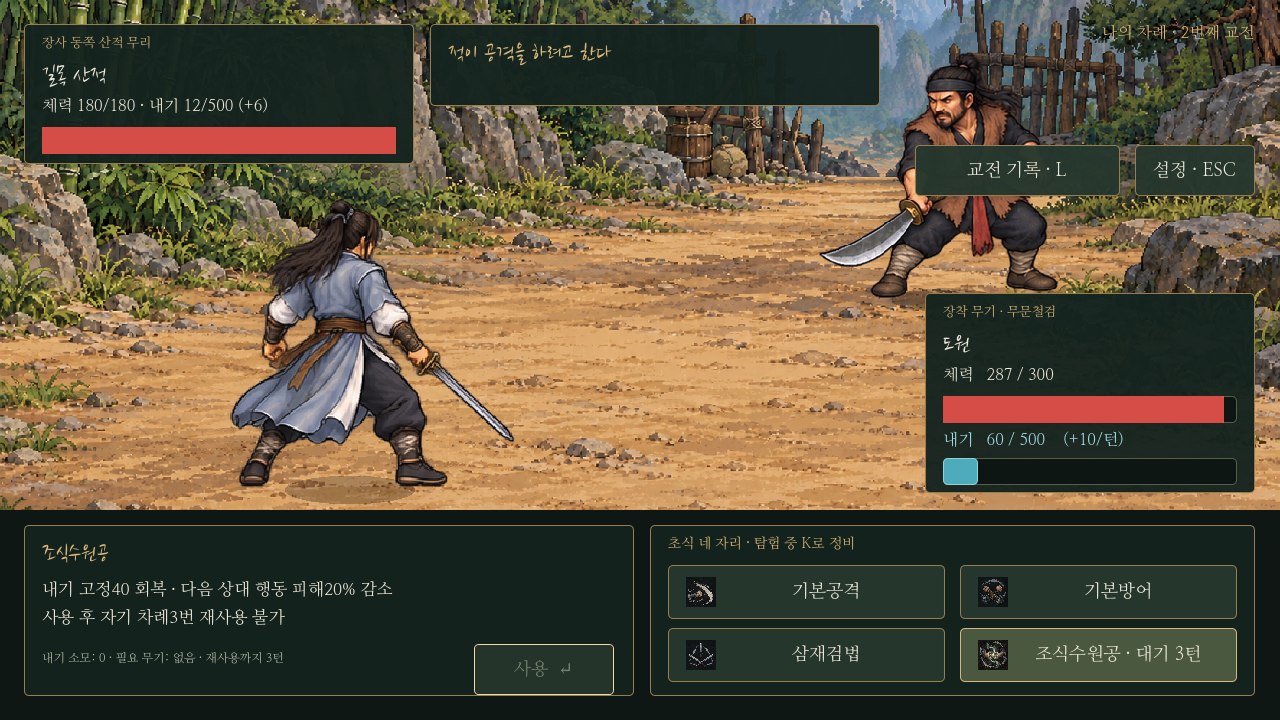
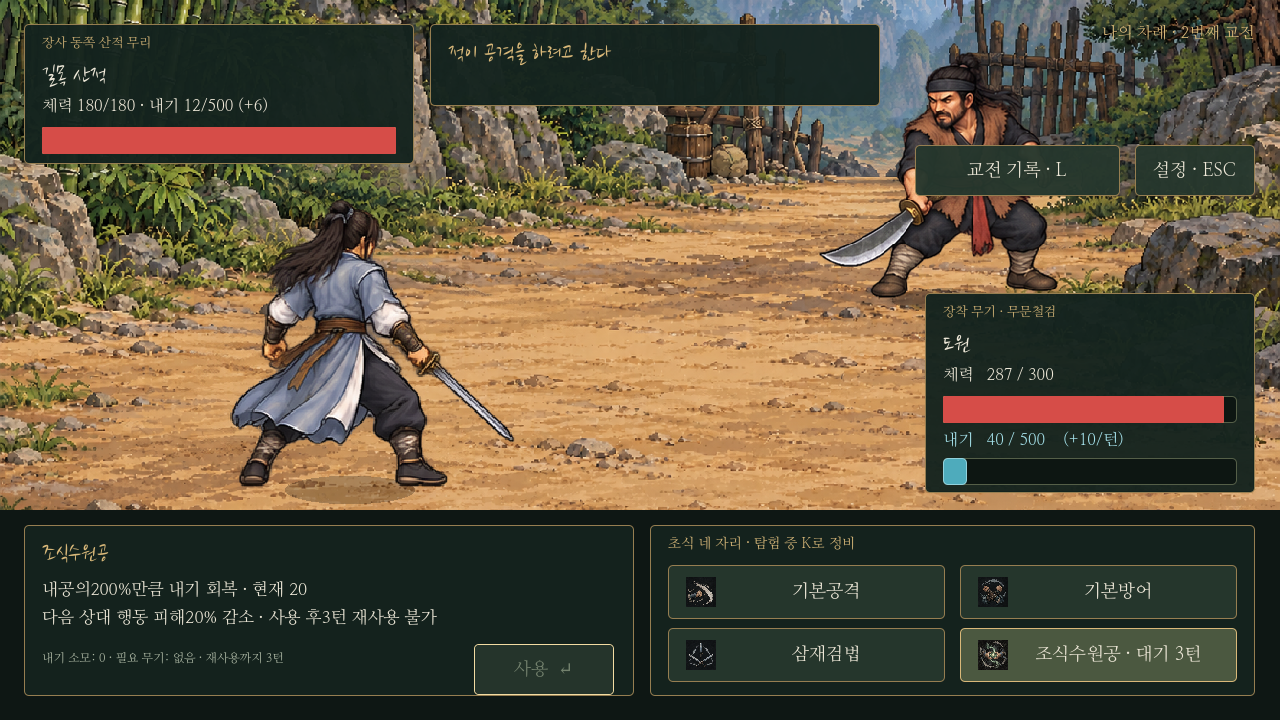
Reduce basic guard to 20 percent and scale breathing recovery with inner power

Changed region(s): [[0.0312, 0.7944, 0.3438, 0.8861], [0.75, 0.6417, 0.7812, 0.6722]]

diff --git a/docs/CLI_HANDOFF.md b/docs/CLI_HANDOFF.md
@@ -12,7 +12,7 @@
 - **진행:** 0장 출항·첫 전투·침몰·귀물/구조 선택·표국 해체·장사 입성. 귀물 인도 보수 3,000문, 구조 경로는 해당 보수 없음.
 - **장사:** 바닥과 독립 건물·담장·문 등152개 오브젝트, 발밑 충돌·Y정렬·문 중앙 통과/지붕 가림, NPC 전신 겹침 방지. 자유 탐험·미니맵·목표 안내·시설 거래. 불필요 주민16명을 제거해 현재 NPC16명(의뢰11·거래3·토벌2)이다. 의뢰11명에게 이름·배경·일상 대사를 부여했으며 [명단](characters/changsha-quest-residents.md)에 정리했다. 도입 3종은 상인→장인→교관으로 이어지고 완료 대화 뒤 100/150/200문·오성 각5를 한 번 지급한다. 독립 일반 의뢰6종도 수락/보류·수행·보고·보상까지 구현했다. 의뢰인은 노란 !, 보고 대기는 ?, 완료 후 표식을 제거한다.
 - **무창 지도:** 남쪽 농촌을 거쳐 남문으로 입성하며 북동쪽에 대형 무림맹 본단을 배치했다. 농촌 확장 후8192×7680, 성내 좌표와 본단 크기는 유지한다. 남동쪽 관아의 북·서·동 담장15개를 보강해 관아 경계를 완성했다(구조물224개). 기존 남쪽 문과 주민 접근은 유지한다. 성곽 동문은 전용 측면 그림과 남북 기둥 충돌로 고쳐 동서 왕복 통행하도록 했다. 타이틀의 ‘무창 자유 탐방’으로 확인한다. 민간 주민8명과 영약상·장인·교관 거래3종을 배치했고 주민 초상화/도트·F 대화를 연결했다. 총무당(정문 안 왼편 기존 접수처)에 F 왕복 포탈과 별도 실내를 추가했다. 실내 가구 충돌·지도·저장/불러오기를 지원한다. 무림맹 경비2명과 교관 곽진석을 성내에, 총관 허문규를 총무당 실내에 배치했다(무창11명·실내1명). 정문 출입 제한과 기본 대화를 연결했으며 [이번 범위](story/alliance-visit-foundation.md)에 정리했다. 송지겸은 상시 배치 없이 사건에 맞춰 등장하는 인물로 확정했다. 초대·보증 연출·무공 선택/지급은 다음 단계다. 기본 새 플레이는 신원 미확인으로 입장이 막힌다. [주민과 대사](characters/wuchang-civilians.md). 즉시 동행 선택지 없이 나중에 육로로 방문하는 방향. [지도·진행 구분](cities/wuchang.md), [무림맹](factions/murim-alliance.md).
-- **무창 일반 의뢰:** 유백초의 「돌아오지 않는 약초꾼」을 수락→산길 약초 꾸러미 조사→구칠과 전투→귀환 보고로 구현했다. 꾸러미의 마지막 조사 대사를 마쳐야 임소평·구칠을 생성하며 그전에는 몸체/상호작용/지도 표식이 없다. 완료 보상은 **200문만**, 능력치·명성 변화 없음. 장사 밖 일반 의뢰에 오성을 자동 부여하지 않는다. 재도전·Q 일지·지역별 출구/목표 안내·저장 복원을 지원한다. [진행·원고·검증](quests/wuchang-herbalist.md). 석대용의 「장인의 이름값」도 수락→주계복의 호미/구매 경위 확인→오덕수의 반입 장부 확인→석대용 보고로 구현했다. 완료 보상150문만, 비전투·기존 주민 재사용·순서 건너뛰기 방지·Q 안내/표식/단계별 저장을 지원한다. [원고·진행·검증](quests/wuchang-artisan.md). 세 번째 「세 걸음의 대련」도 임정산 수락→연무장 유소강 대련→승패와 관계없이 보고→조식수원공 전수로 구현했다. 세 의뢰는 동시 진행 가능하며 나머지 무창 주민5인 의뢰는 후보 상태다. 조식수원공은 모든 무기/맨손, 내기0 소모, 고정내기40 회복/해당 상대 행동 피해20%감소/사용 후 자기 차례3번 재사용 불가(T사용→T+4재사용)다. 금전/오성 추가 없음. K 편성·아이콘·대기 턴 표시·공통 전투/회복·저장 복원을 지원한다. [진행/원고/검증](quests/wuchang-duel-proposal.md).
+- **무창 일반 의뢰:** 유백초의 「돌아오지 않는 약초꾼」을 수락→산길 약초 꾸러미 조사→구칠과 전투→귀환 보고로 구현했다. 꾸러미의 마지막 조사 대사를 마쳐야 임소평·구칠을 생성하며 그전에는 몸체/상호작용/지도 표식이 없다. 완료 보상은 **200문만**, 능력치·명성 변화 없음. 장사 밖 일반 의뢰에 오성을 자동 부여하지 않는다. 재도전·Q 일지·지역별 출구/목표 안내·저장 복원을 지원한다. [진행·원고·검증](quests/wuchang-herbalist.md). 석대용의 「장인의 이름값」도 수락→주계복의 호미/구매 경위 확인→오덕수의 반입 장부 확인→석대용 보고로 구현했다. 완료 보상150문만, 비전투·기존 주민 재사용·순서 건너뛰기 방지·Q 안내/표식/단계별 저장을 지원한다. [원고·진행·검증](quests/wuchang-artisan.md). 세 번째 「세 걸음의 대련」도 임정산 수락→연무장 유소강 대련→승패와 관계없이 보고→조식수원공 전수로 구현했다. 세 의뢰는 동시 진행 가능하며 나머지 무창 주민5인 의뢰는 후보 상태다. 조식수원공은 모든 무기/맨손, 내기0 소모, 내공의200% 내기 회복/해당 상대 행동 피해20%감소/사용 후 자기 차례3번 재사용 불가(T사용→T+4재사용)다. 금전/오성 추가 없음. K 편성·아이콘·대기 턴 표시·공통 전투/회복·저장 복원을 지원한다. [진행/원고/검증](quests/wuchang-duel-proposal.md).
 - **도시 간 육로:** 장사 동쪽 농촌 끝 F→동진 후 북상하는 산길→무창 남쪽 농촌 끝 F, 푸른 포탈4곳으로 왕복 가능. 접근 강조·목적지·F 안내와 지도 표식을 지원한다. 산길은4096×5120으로 최초 세로 길이의 절반이며 긴 지도 저장의Y좌표를 호환 변환한다. 새 지역에서도 지도·I/K/Q·저장 지원. 산길에는 위 의뢰 진행 중에만 사건 인물/전투가 등장한다. 송지겸 사절 연출은 아직 없다. [출입·구현·검사](cities/changsha-wuchang-road.md).
 - **이동·비율:** 이동 속도360(기존2배), 도시 주인공140·주민132, 0장104. 충돌·카메라·머리 위 표시를 함께 조정했다. [탐험 크기와 이동](systems/exploration-scale.md).
 - **편의:** Q 의뢰 일지, 실제 F 대상 발밑 강조, 거래/I/K 비교·조건/잔액 표시, 약/장/무 시설 지도·필터·안내, L 교전 기록/결산, F2 도움말/최초 안내, ESC 환경 설정, 공통 알림·효과음6종. [입구·진행·검사](systems/adventure-usability.md).
@@ -20,7 +20,7 @@
 - **산적 토벌:** 1장 도입 완료·스탯 합계100 이상·삼재검법 외 새 무공1종 습득 후 자동 모집. 2연전·철수/재도전·귀환 보고, 보상500문·오성5·명성5.
 - **창 중급 조정:** 사용자는 현재 중급 구간에서도 창 최강을 원한다. 가상 강화 적으로1,080건 비교했고 [검토 결과](reviews/alliance-matchups.md)에 현재 관악창법의 내기 부담과360/18 조정안을 정리했다. 사용자가360/18 조정안을 채택해 적용했다(균형창 내기17). 가상 적은 게임에 등록하지 않았다.
 - **무림맹 중급 무공:** 검·도·창·권·장5종을 전용 데이터와 아이콘에 등록했다. 능력치/경지 학습 제한은 없고 무기·내기 사용 조건은 유지한다. 반석권법 내공 계수를6으로 강화해 균형20 기준 장법과 동일한320이다. 일반 교관 비판매이며 무림맹 전수 대화/지급은 아직 미연결이다. [수치·비교·이미지](martial-arts/alliance-intermediate.md).
-- **전투:** 기본공격/기본방어/삼재검법/빈칸으로 시작하며 **4칸 모두 교체 가능**. 기본방어70%, 검법 사용 후 방어20%. 적도 공통 내기/무공 규칙을 쓰고 플레이어 선택 전에 행동을 확정한다. 예고는 큰 기세만 보여 준다.
+- **전투:** 기본공격/기본방어/삼재검법/빈칸으로 시작하며 **4칸 모두 교체 가능**. 기본방어20%, 검법 사용 후 방어20%. 적도 공통 내기/무공 규칙을 쓰고 플레이어 선택 전에 행동을 확정한다. 예고는 큰 기세만 보여 준다.
 - **포졸 초상화:** 기존 토벌 대화의 `bandit_messenger`에 검정·붉은 관아 근무복/관모·捕 표식·포승줄·단봉을 갖춘 `portraits/story/constable-duty.png`를 적용했다. 기본18장과 주인공은 그대로다. [그림·근거·연결](../godot/assets/portraits/story/README.md).
 - **도시 시설 인물 그림:** 상인·장인·교관은 직업마다 장사형/무창형2종 중1종을 선택해 모든 새 도시에 배치한다. `data/service_npc_portraits.json`에6종/현재 도시 배정을 등록했다. 인물 이름·설정은 별도이며 대화/거래 그림을 맞춘다. 현재 두 도시는 그대로, 일반 주민 기본18장도 유지한다. [이미지 목록](characters/service-npc-gallery.md).
 - **표현:** 검·도·창·맨손 전투 모션과 양측 공격·피격 효과음, 걷기 애니메이션, 상황별 BGM, 번들 붓글씨/명조체, 초상화 비율·시선 처리. 기본 NPC 초상화는 기존 공용10장+무창8장=총18장(남10/여8). 갤러리4번/9번 공용 청년 남녀를 평범한 인상으로 교체해 기존 사용처 전체에 적용했다(원본 경로/ID 유지). 일반 마을 NPC는 별도 지시 없이 새 그림을 만들지 않고 재사용한다. `data/basic_npc_portraits.json`이 목록이며 같은 대화의 이미지 중복을 금지한다. 대화 기록 버튼/H키로 현재까지 읽은 줄을 본다. [오브젝트·대화 도구](systems/layered-city-and-conversation.md).

diff --git a/docs/quests/wuchang-duel-proposal.md b/docs/quests/wuchang-duel-proposal.md
@@ -19,7 +19,7 @@
 |무기 조건|검·도·창 등 모든 무기와 맨손에서 사용 가능|
 |학습 조건|의뢰 완료 보고로 전수, 추가 능력치/경지 조건 없음|
 |내기 소모|0|
-|즉시 효과|현재 내기+40, 상한500|
+|즉시 효과|현재 내기+내공×2(내공의200%), 상한500|
 |방어 효과|이 행동 뒤 이어지는 상대 행동에 받는 피해20% 감소|
 |지속|그 상대 행동이 끝나면 해제, 상대가 수세면 방어를 다음 행동으로 이월하지 않음|
 |제한|한 번 사용하면 다음 자기 차례3번 동안 사용 불가. 사용한 차례가T이면T+1/T+2/T+3에서 막고T+4부터 재사용 가능|
@@ -27,9 +27,9 @@
 
 ‘조식’은 호흡을 고르는 것, ‘수원’은 근본이 되는 기운을 지킨다는 뜻이다. 낮춘 자세로 상대의 힘을 흘리면서 흐트러진 내기를 모으는 공법이다.
 
-사용자 수정 확정: **내기 회복은 고정40, 방어율20%, 사용 후3턴 재사용 불가**다. 내기 소모0과 무기 공통 사용 조건은 유지한다. 기본방어70%와 별도로, 일부 피해를 감수하면서 내기를 확보하는 보조 기술이다. 다른 초식 방어를 더하지 않고 해당 행동의20% 감소를 적용하며 기존 근골/장비 감소 계산은 유지한다.
+사용자 수정 확정: **내기 회복은 내공의200%, 방어율20%, 사용 후3턴 재사용 불가**다. 내기 소모0과 무기 공통 사용 조건은 유지한다. 기본방어20%와 별도로, 일부 피해를 감수하면서 내기를 확보하는 보조 기술이다. 다른 초식 방어를 더하지 않고 해당 행동의20% 감소를 적용하며 기존 근골/장비 감소 계산은 유지한다.
 
-내공10·내기10에서 사용하면 즉시50이 되고, 살아서 다음 차례를 맞으면 기존 턴 회복10이 더해져60이 된다. 기술 회복40은 내공/장비에 따라 커지지 않으며 상한500을 넘지 않는다.
+내공10·내기10에서 사용하면 즉시20을 회복해30이 되고, 살아서 다음 차례를 맞으면 기존 턴 회복10이 더해져40이 된다. 내공20이면 기술 회복40과 기존 턴 회복20이 적용된다. 무기 보정은 받지 않고 상한500을 넘지 않는다.
 
 재사용 예시:1번째 차례 사용 →2/3/4번째 차례 사용 불가 →5번째 차례부터 다시 사용 가능. 적 차례를 별도1턴으로 세지 않는다. 기술을 미리보거나 메뉴를 열고 닫는 것으로 대기 시간이 줄지 않으며 실제 플레이어 행동을 마친 차례로 계산한다. 다음 전투는 대기 시간을 초기화한다. 방어는 이번 상대 행동까지만 적용하며 재사용 대기3턴 내내 지속되지 않는다.
 
@@ -102,14 +102,14 @@
 
 ## 아이콘·구현·검증
 
-기존 먹빛 화풍의 옥빛 호흡/방어 아이콘을 생성했다. `godot/assets/icons/josik-suwon.png`, 아이콘ID `josik_suwon`으로 `icon_manifest.json`에 연결했다. `support_martial_arts.json`에 등록했고 의뢰 완료 보고에서 습득한다. 일반 교관은 판매하지 않으며 K에서 네 행동 슬롯 중 하나에 편성해 쓴다. 무기별 조건·공격 보정·창의 내기 절감과 무관하게 내기0 소모/고정40 회복이다. 공통 `combat_actions.gd`/`inner_qi.gd`에서 회복·방어·재사용 계산을 수행하고 적도 같은 실행 경로를 사용한다.
+기존 먹빛 화풍의 옥빛 호흡/방어 아이콘을 생성했다. `godot/assets/icons/josik-suwon.png`, 아이콘ID `josik_suwon`으로 `icon_manifest.json`에 연결했다. `support_martial_arts.json`에 등록했고 의뢰 완료 보고에서 습득한다. 일반 교관은 판매하지 않으며 K에서 네 행동 슬롯 중 하나에 편성해 쓴다. 무기별 조건·공격 보정·창의 내기 절감과 무관하게 내기0 소모/내공의200% 회복이다. 공통 `combat_actions.gd`/`inner_qi.gd`에서 회복·방어·재사용 계산을 수행하고 적도 같은 실행 경로를 사용한다.
 
 `battle.ready_turns`에 재사용 가능 차례를 기록한다.1턴 사용 시5턴부터 다시 사용할 수 있다. 대기 중에도 설명을 읽을 수 있고 슬롯에 남은 턴을 표시하지만 실행은 막는다. 유효한 기술을 전부 뺀 편성에서 대기 시간이 생기면 기존 임시 기본공격을 제공한다. 재사용 대기는 새 교전 시작 시 초기화한다.
 
 `duel_quest`는available/accepted/battle/ready/completed와win/loss 결과를 저장한다. 새 필드 없는 기존 저장은미수락으로 읽으며 기존schema1~3을 보존한다. 전투 중 새 저장 금지는 유지하고, 호환 전투 스냅샷의재사용 차례와 확정 적 행동도 복원해 불러오기로 회복/대기를 초기화하지 않는다. 학생은 수락 후에만 연무장에 등장하고 완료 후 제거한다. 기존 주민/다른 의뢰 진행은 유지하며 임정산의 무공 거래는 별도 용건으로 계속 이용할 수 있다.
 
 - `tests/duel_quest.gd`: 실제F 수락/보류/정비, 초상화·전신 배치/동선, 시작 능력치 승리와 패배 양쪽, 보고 끝의 단일 전수·금전/스탯 불변, 세 의뢰 동시 진행, 저장 복원, K 아이콘/설명/편성.
-- `tests/josik_suwon.gd`: 모든 무기/맨손, 고정40·상한500·자연 회복,20%감소,1턴사용→2/3/4턴차단→5턴재사용, 미리보기/연속클릭 무효, 호환 전투 저장/복원, 새 교전 초기화와 임시 기본공격.
+- `tests/josik_suwon.gd`: 모든 무기/맨손, 내공0/1/10/20/50/100의200% 회복·상한500·자연 회복,20%감소,1턴사용→2/3/4턴차단→5턴재사용, 미리보기/연속클릭 무효, 호환 전투 저장/복원, 새 교전 초기화와 임시 기본공격.
 - 회귀: martial_arts / combat_updates(기존110전투) / wuchang_residents / saves / quest_navigation / artisan_quest / herbalist_quest / save_restrictions / inner_qi. 분리한XDG 사용자 경로에서 실행한다.
 
 플레이 캡처: [수락](../../godot/screenshots/duel-quest-offer.png), [연무장 제자](../../godot/screenshots/duel-quest-student.png), [대련](../../godot/screenshots/duel-quest-battle.png), [전수](../../godot/screenshots/duel-quest-teaching.png), [K창](../../godot/screenshots/duel-quest-martial-menu.png), [기술 설명](../../godot/screenshots/duel-quest-skill.png), [재사용 대기](../../godot/screenshots/duel-quest-cooldown.png). `capture_duel_quest.gd`는 화면 재현의 마지막 교전에서 적 체력을1로 낮추며 난이도 검사는 별도 실제 전투 검사로 수행한다.

diff --git a/docs/systems/combat-actions-and-icons.md b/docs/systems/combat-actions-and-icons.md
@@ -15,7 +15,7 @@
 새 게임 편성은 `기본공격 / 기본방어 / 삼재검법 / 빈칸`. K와 교관의 편성 탭에서 네 칸 모두 바꾸거나 비울 수 있다. 기본 행동은 습득 무공 수로 계산하지 않는다.
 
 - 기본공격: 기존 근력+기민+내공, 내기 0.
-- 기본방어: 공격 없이 다음 적 행동의 피해70% 감소, 내기 0. 일반 턴 회복만 적용.
+- 기본방어: 공격 없이 다음 적 행동의 피해20% 감소, 내기 0. 일반 턴 회복만 적용.
 - 검법 4종: 공격과 함께 다음 적 행동의 피해20% 감소. 기존 비용 유지.
 - 무기의 피해 감소와 선택 행동의 방어를 곱하고 마지막에 한 번 버린다. 기본방어와 검법 방어를 합산하지 않는다.
 - 방어는 해당 교전의 적 행동에만 적용된다. 다음 턴이나 다음 전투에 남지 않는다.
@@ -61,3 +61,5 @@
 ![강한 도법 예고와 기본방어](../../godot/screenshots/combat-heavy-intent.png)
 ![자유로운 네 칸 편성](../../godot/screenshots/icons-martial.png)
 ![무기 상점 아이콘](../../godot/screenshots/icons-workshop.png)
+
+조식수원공은 사용 즉시 내공의200%만큼 내기를 추가 회복하고 다음 상대 행동 피해를20% 줄인다. 기존 자연 턴 회복(내공100%)은 별도이며, 최대500·사용 후3턴 재사용 제한은 유지한다.

diff --git a/docs/quests/wuchang-proposals.md b/docs/quests/wuchang-proposals.md
@@ -29,4 +29,4 @@
 
 장인 의뢰 후속 확정: 수정 문구 ‘의심할 필요가 있소?’를 반영하고 기존 주계복/오덕수와 조사한다. 완료 보고 후150문만 지급한다.
 
-세 번째 「세 걸음의 대련」의 [진행/대사/무공 보상 구상](wuchang-duel-proposal.md)을 정리했다. 사용자가 장소를‘연무장’으로 수정하고 금전 대신 무기 공통 방어/내기 회복 무공을 요청했다. 조식수원공은 사용자 수정에 따라 고정내기40 회복/피해20%감소/사용 후3턴 재사용 불가로 정리했고 전수 대사도 수정했다. 의뢰·연무장 제자·승패 공통 전수·무공 효과·K 편성·대기 턴 표시·아이콘·저장 복원까지 구현했다.
+세 번째 「세 걸음의 대련」의 [진행/대사/무공 보상 구상](wuchang-duel-proposal.md)을 정리했다. 사용자가 장소를‘연무장’으로 수정하고 금전 대신 무기 공통 방어/내기 회복 무공을 요청했다. 조식수원공은 사용자 수정에 따라 내공의200% 내기 회복/피해20%감소/사용 후3턴 재사용 불가로 정리했고 전수 대사도 수정했다. 의뢰·연무장 제자·승패 공통 전수·무공 효과·K 편성·대기 턴 표시·아이콘·저장 복원까지 구현했다.

diff --git a/docs/systems/inner-qi.md b/docs/systems/inner-qi.md
@@ -36,4 +36,4 @@
 
 ## 조식수원공의 추가 회복
 
-무창 연무장 대련 보고로 배우는 [조식수원공](../quests/wuchang-duel-proposal.md)은 실행 즉시 내기40을 고정 회복한다. 기존 턴 회복을 대체하지 않으며 내공/장비로 추가량이 늘지 않는다. 공통 `inner_qi.recover()`가 최대500으로 제한한다. 미리보기·실행 거절·연속클릭으로 회복하지 않는다. 상대 행동 피해20% 감소는 해당 행동까지만 적용되고, 사용한 차례가T이면다음 자기 차례3번을 지난T+4부터 재사용한다.
+무창 연무장 대련 보고로 배우는 [조식수원공](../quests/wuchang-duel-proposal.md)은 실행 즉시 내공의200%(내공×2)만큼 내기를 추가 회복한다. 기존 턴 회복(내공100%)은 별도로 적용하며 무기 보정은 받지 않는다. 공통 `inner_qi.recover()`가 최대500으로 제한한다. 미리보기·실행 거절·연속클릭으로 회복하지 않는다. 상대 행동 피해20% 감소는 해당 행동까지만 적용되고, 사용한 차례가T이면다음 자기 차례3번을 지난T+4부터 재사용한다.
